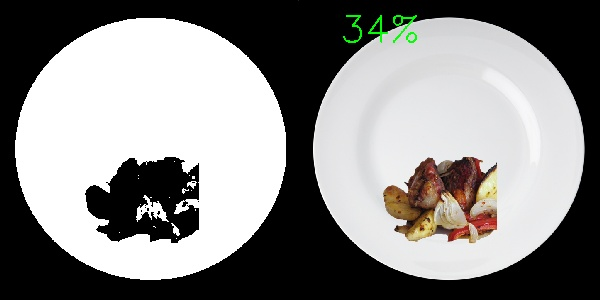
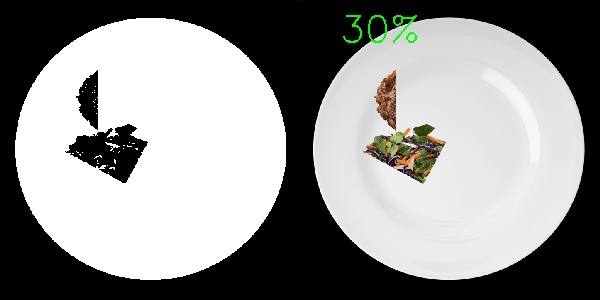
feat: Added plate information
Added the plte class in the database class

Changed region(s): [[0.6, 0.24, 0.84, 0.81], [0.09, 0.24, 0.33, 0.81], [0.6, 0.03, 0.66, 0.15]]

diff --git a/src/foodMain.cpp b/src/foodMain.cpp
@@ -72,7 +72,6 @@ const long MyFrame::ID_TIMER1 = wxNewId();
 Camera myInCamera("LogCamIn.txt", "../log/", true, 0, false);  /* Incoming camara */
 Camera myOutCamera("LogCamOut.txt", "../log/", true, 1, false);  /* Outgoing camara */
 Record myRecord("LogRecord.txt", "../log/", true);
-
 std::shared_ptr<ResultDB> myResult(new ResultDB);
 std::thread tResults;
 std::promise<void> tResultExit;
@@ -91,6 +90,9 @@ bool MyApp::OnInit()
         return false; /*Don't lunch the GUI */
     }
     
+    myResult->PlateName("Meat with salad");
+    myResult->ExpPercentage(71);
+
     std::srand((unsigned) time(0));
     myInCamera.dPrintObj();
     myOutCamera.dPrintObj();
@@ -119,7 +121,7 @@ MyFrame::MyFrame()
     Bind(wxEVT_MENU, &MyFrame::OnAbout, this, wxID_ABOUT);
     Bind(wxEVT_MENU, &MyFrame::OnExit, this, wxID_EXIT);
 
-    st_dayFood = new wxStaticText(this, ID_ST_DAYFOOD, _("_____________________"), wxPoint(64,16), wxSize(248,17), 0, _T("ID_ST_DAYFOOD"));
+    st_dayFood = new wxStaticText(this, ID_ST_DAYFOOD, _(myResult->PlateName()), wxPoint(64,16), wxSize(248,17), 0, _T("ID_ST_DAYFOOD"));
     st_currentDate = new wxStaticText(this, ID_ST_CURRENTDATE, _("_____________________"), wxPoint(64,48), wxDefaultSize, 0, _T("ID_ST_CURRENTDATE"));
     StaticText1 = new wxStaticText(this, ID_STATICTEXT2, _("FOOD NAME:"), wxPoint(10,16), wxDefaultSize, 0, _T("ID_STATICTEXT2"));
     wxFont StaticText1Font(10,wxFONTFAMILY_SWISS,wxFONTSTYLE_NORMAL,wxFONTWEIGHT_BOLD,false,_T("Sans"),wxFONTENCODING_DEFAULT);

diff --git a/src/camera.cpp b/src/camera.cpp
@@ -80,7 +80,7 @@ void Camera::processImage(std::future<void> futureObj, std::shared_ptr<ResultDB>
         imwrite(filename, res);
 
         /* Store in the DB */
-        DBNewRecord myNewRecord("Rice", "10/10/2020", inFlag, percentageResult, 70, false);
+        DBNewRecord myNewRecord(record->PlateName(), "10/10/2020", inFlag, percentageResult, record->ExpPercentage(), false);
         auto ftr_store = (std::async(std::launch::async, &RecordQueue<DBNewRecord>::Store, &(record->newDataResult), std::move(myNewRecord)));
         ftr_store.wait(); /* Wait the store  */
         record->addOnePlate(inFlag);

diff --git a/src/plate.h b/src/plate.h
@@ -21,6 +21,7 @@ constexpr unsigned int maxNutrients = 1000; ///< Maximum number accepted on Nutr
 class Plate {
     public:
         /* Constructor */
+        Plate() {};
         Plate(std::string uPlateName, unsigned int uExpPercentage, unsigned int uNutrients_A);
         /* Get/Set */  
         std::string PlateName(void) { return plateName;};

diff --git a/src/db.h b/src/db.h
@@ -87,9 +87,9 @@ class DBNewRecord {
 };
 
 
-class ResultDB {
+class ResultDB : public Plate {
     public:
-        ResultDB();
+        ResultDB(); /* In future Version must take the plate info from the DB */
         ~ResultDB();
         RecordQueue<DBNewRecord> newDataResult;
         unsigned int dayQuantity(bool inFLag);

diff --git a/src/camera.h b/src/camera.h
@@ -55,7 +55,6 @@ class Camera : public DebugFood {
         int const vmax = 255;  
 
         void getContours(cv::Mat imgGray, cv::Mat img); 
-
 };
 
 #endif
